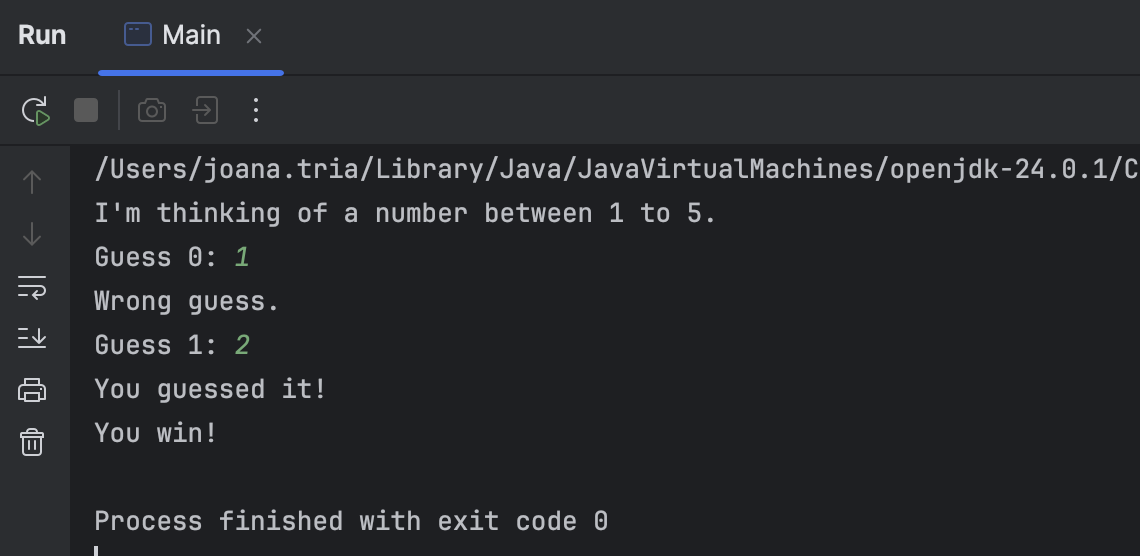
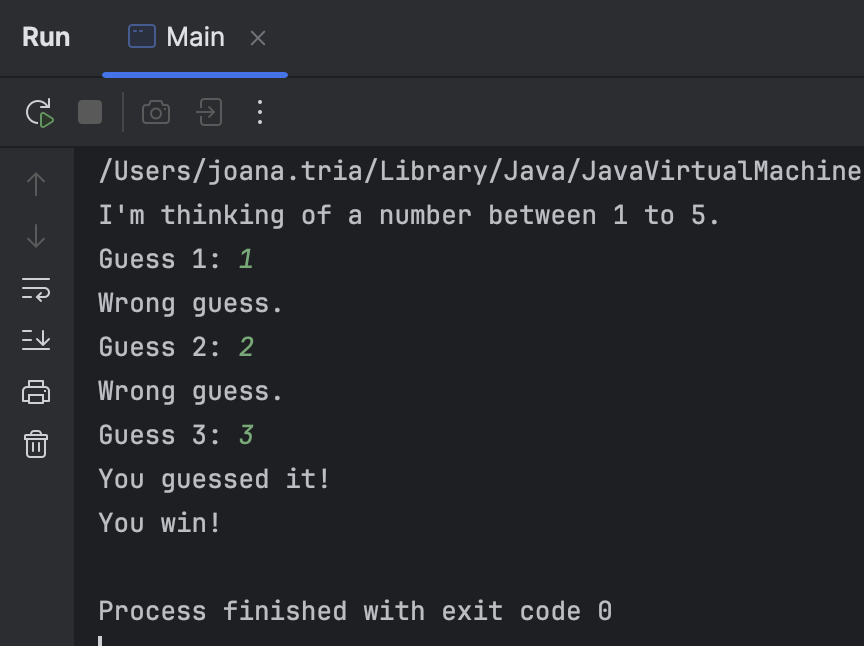
Final Submission, Lab 3: Guessing Game

diff --git a/GuessingGame/src/main/java/org/example/Main.java b/GuessingGame/src/main/java/org/example/Main.java
@@ -11,7 +11,8 @@ public class Main {
         System.out.println("I'm thinking of a number between 1 to 5.");
 
         for (int i = 0; i < 3; i++) {
-            System.out.print("Guess " + i + ": ");
+            int guessNumber = i+1;
+            System.out.print("Guess " + guessNumber + ": ");
             int guess = scanner.nextInt();
             if (secretNumber == guess) {
                 System.out.println("You guessed it! \nYou win!");
